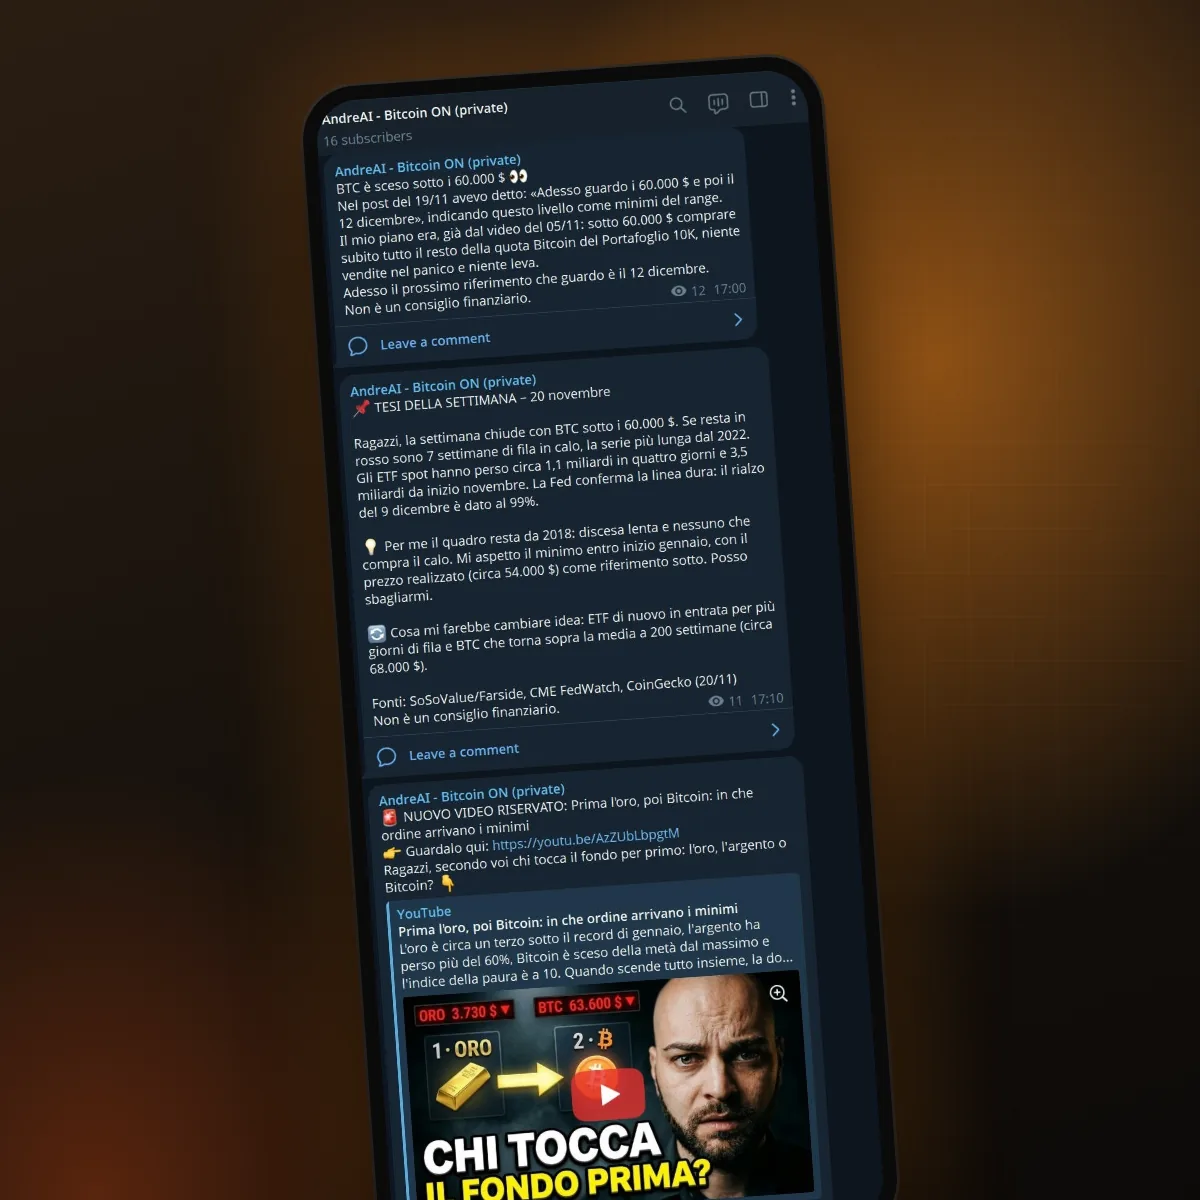
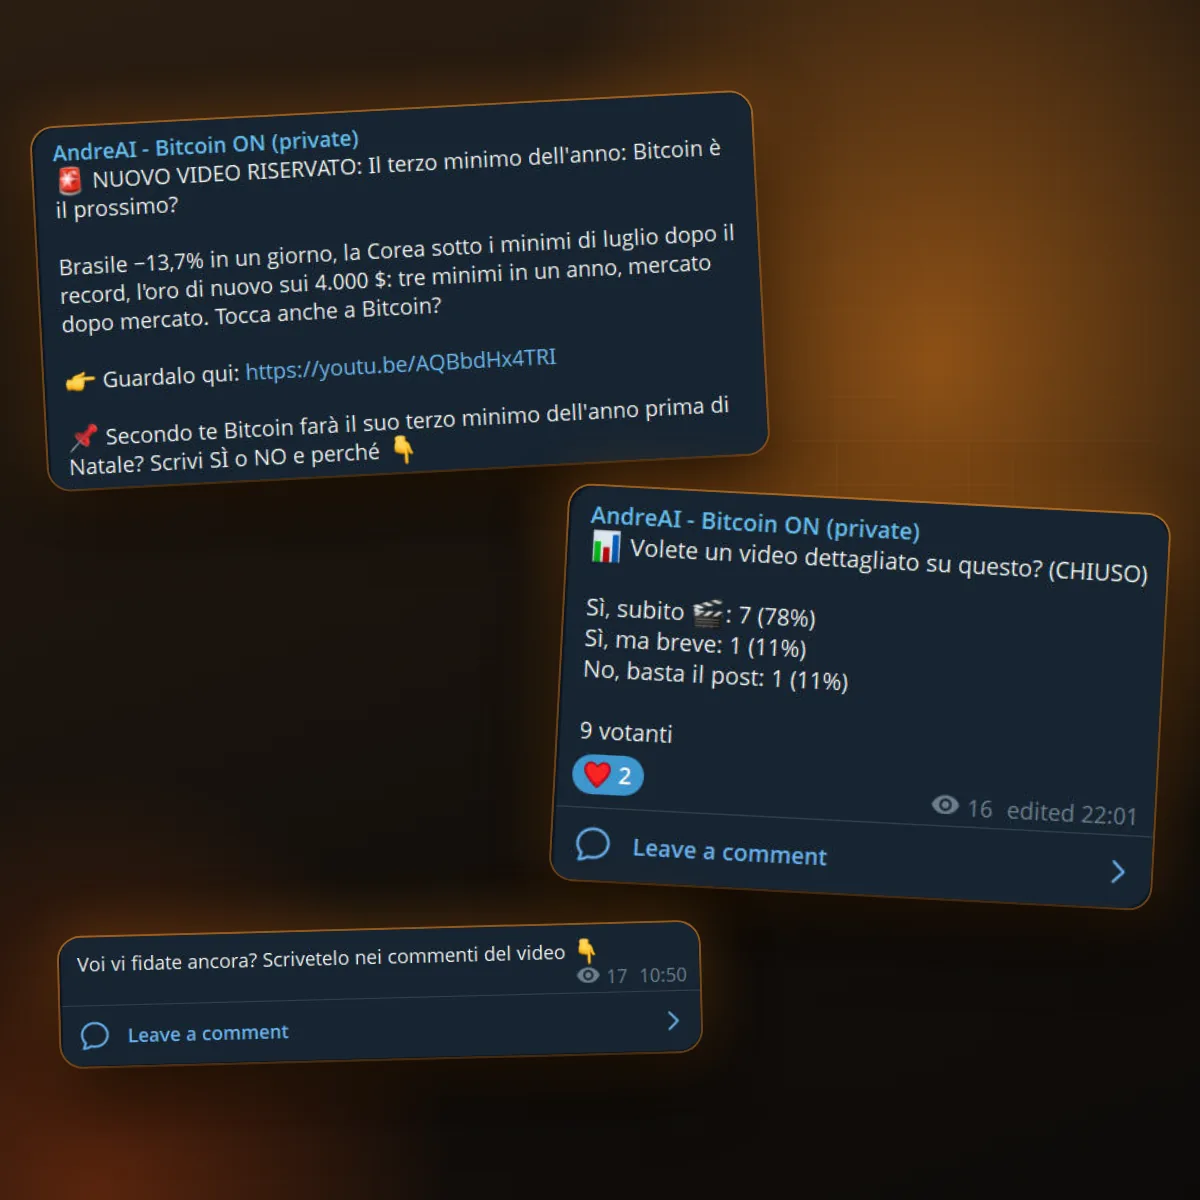
Vetrina AndreAI: la penultima foto è un sondaggio e le domande agli abbonati
Il telefono con la tesi rifaceva la copertina (Andrea: «è la stessa
praticamente della prima»): al suo posto i post veri del canale con
la domanda agli abbonati e il sondaggio, senza nomi altrui.

Claude-Session: https://claude.ai/code/session_01SbWPpErCLU2fruEbUhb7gr

diff --git a/racconti.py b/racconti.py
@@ -367,7 +367,9 @@ RACCONTI_NEGOZI = {
         #   andreai-bitcoin-on-3.webp    il telefono coi video
         #   andreai-bitcoin-on-4.webp    il telefono coi grafici
         #   andreai-bitcoin-on-5.webp    i tre post di «cosa avevo scritto»
-        #   andreai-bitcoin-on-6.webp    il telefono con la tesi
+        #   andreai-bitcoin-on-6.webp    un sondaggio e le domande agli
+        #                                abbonati (il telefono con la tesi
+        #                                rifaceva la copertina: Andrea)
         #   andreai-bitcoin-on-7.webp    grafici, tabella del rischio e tesi
         "foto": True,
         # il logo della card «Consigliati»: il volto del ritratto in un
@@ -491,8 +493,9 @@ RACCONTI_NEGOZI = {
                 ("Per chi cerca guadagni facili con la leva: io la leva non "
                  "la uso."),
             ]},
-            {"t": "foto", "n": 6, "etichetta": "telefono con la tesi",
-             "alt": "Il canale Bitcoin ON sul telefono, con la tesi"},
+            {"t": "foto", "n": 6, "etichetta": "sondaggi e commenti",
+             "alt": ("Un sondaggio e le domande agli abbonati nel canale "
+                     "Bitcoin ON")},
             {"t": "tappe", "h": "COME FUNZIONA", "voci": [
                 {"h": "Paghi in sats",
                  "p": ("25 € al mese in sats, il 50% in meno dei 50 € del "
